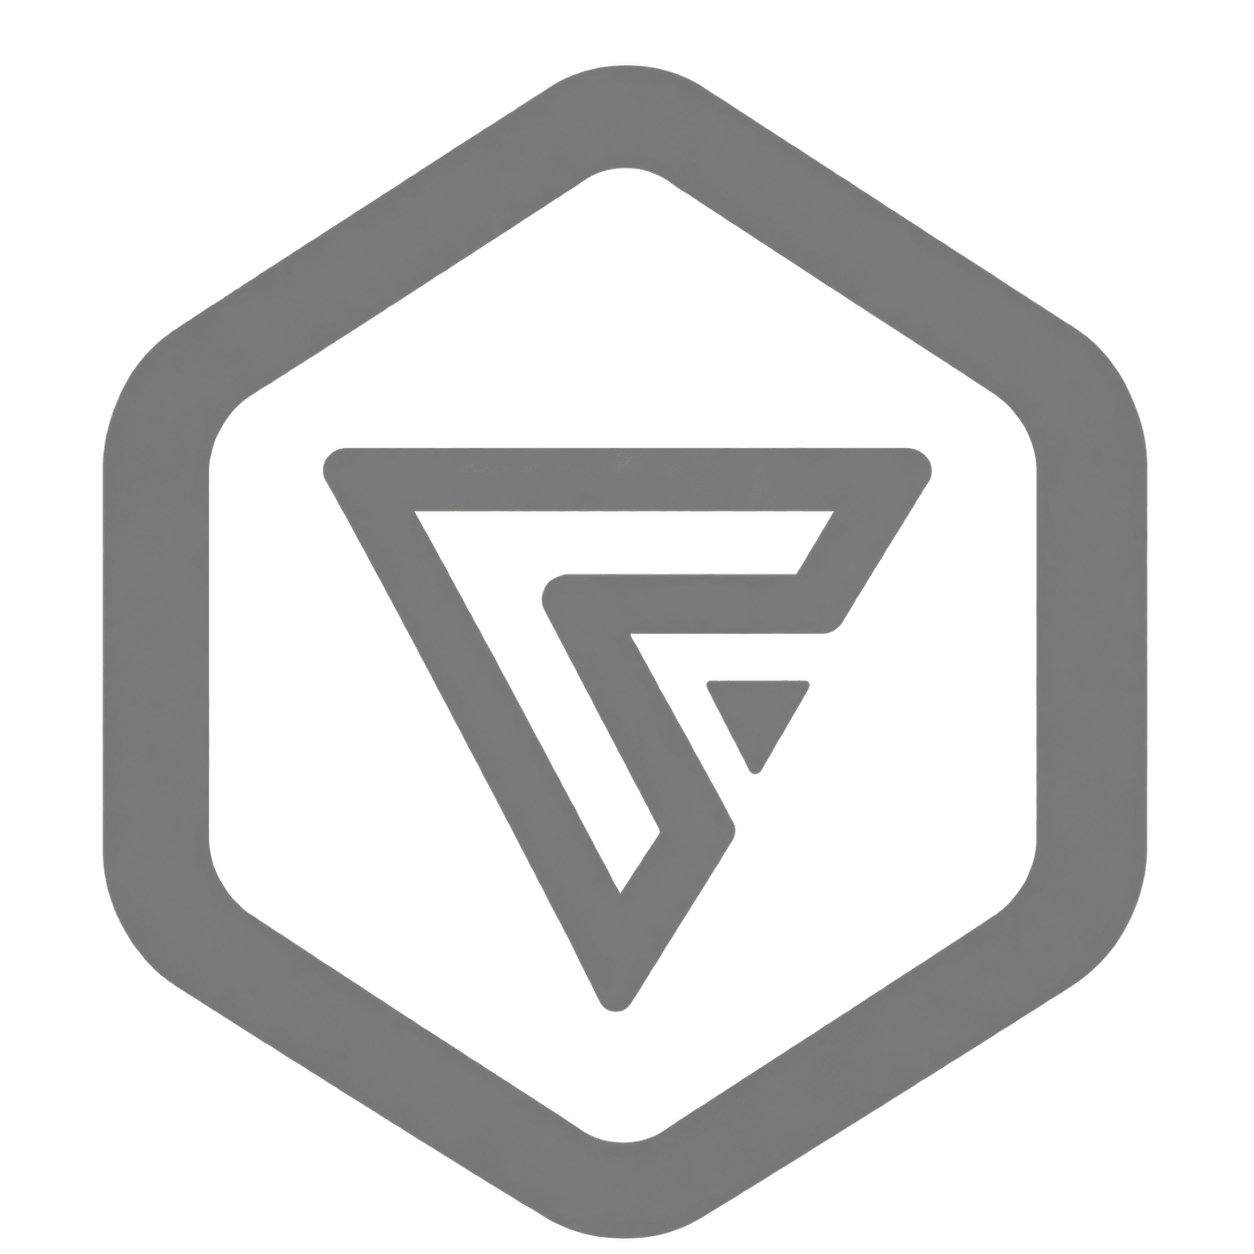
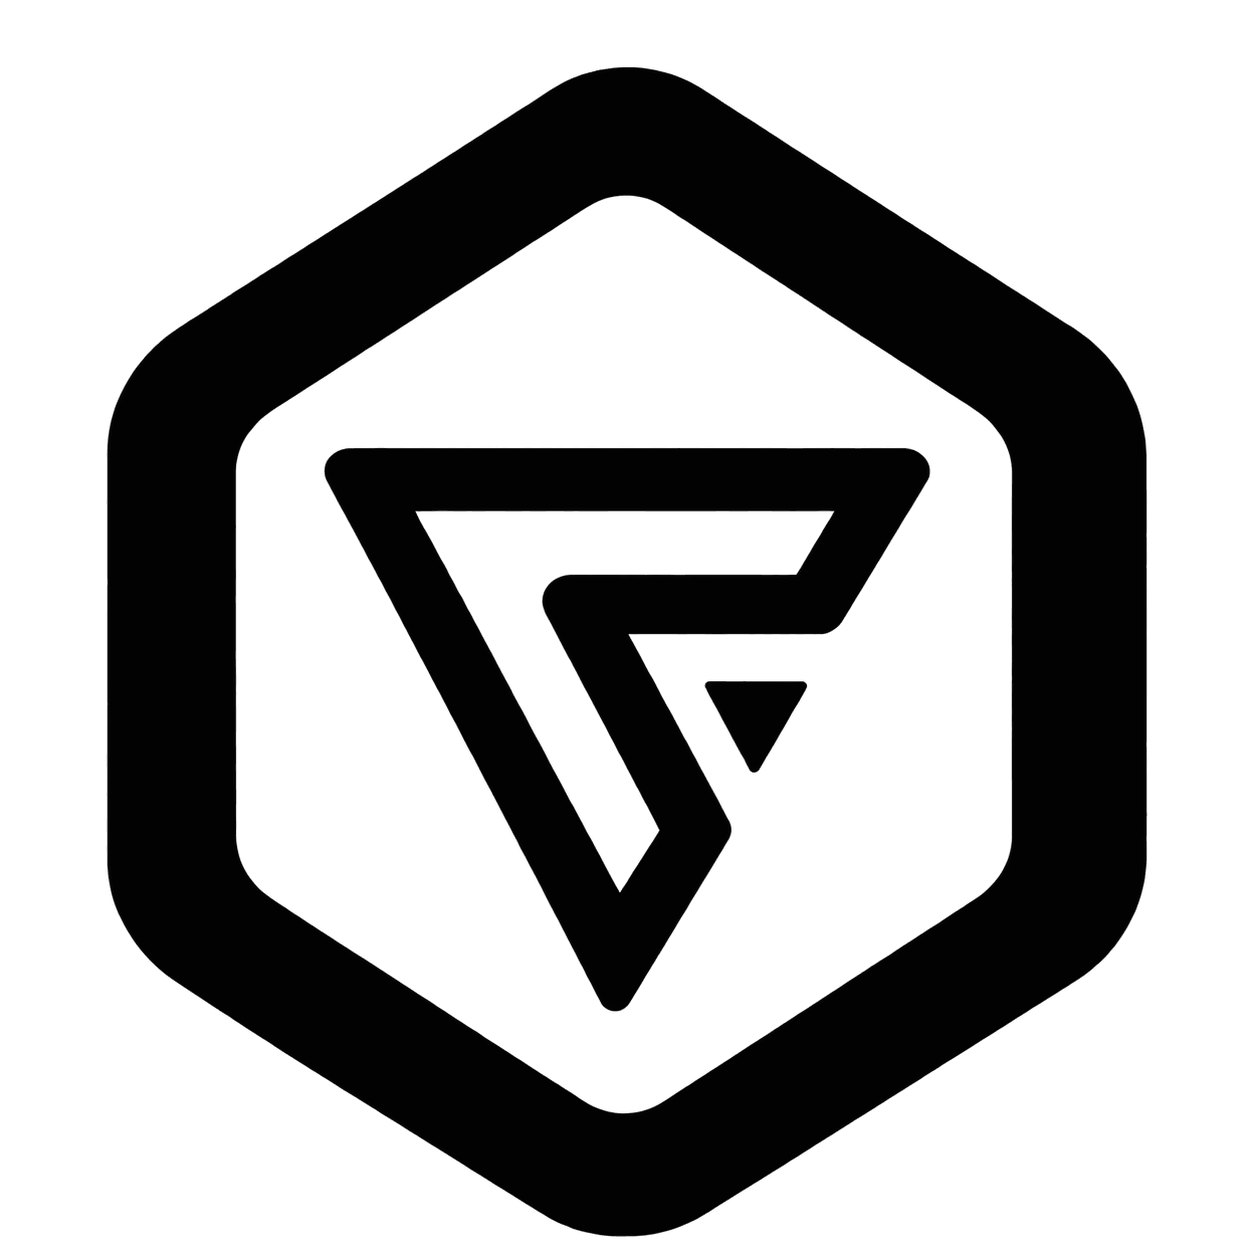
release: trinity agent 5.8.8

diff --git a/extension/CHANGELOG.md b/extension/CHANGELOG.md
@@ -1,5 +1,9 @@
 # Changelog
 
+## 5.8.8
+
+- Use the actual black TRINITY artwork for light editor tabs; retain the bold white artwork for dark tabs.
+
 ## 5.8.7
 
 - Use the bold black tab icon in light themes and the bold white tab icon in dark themes without changing the purple light header logo.
